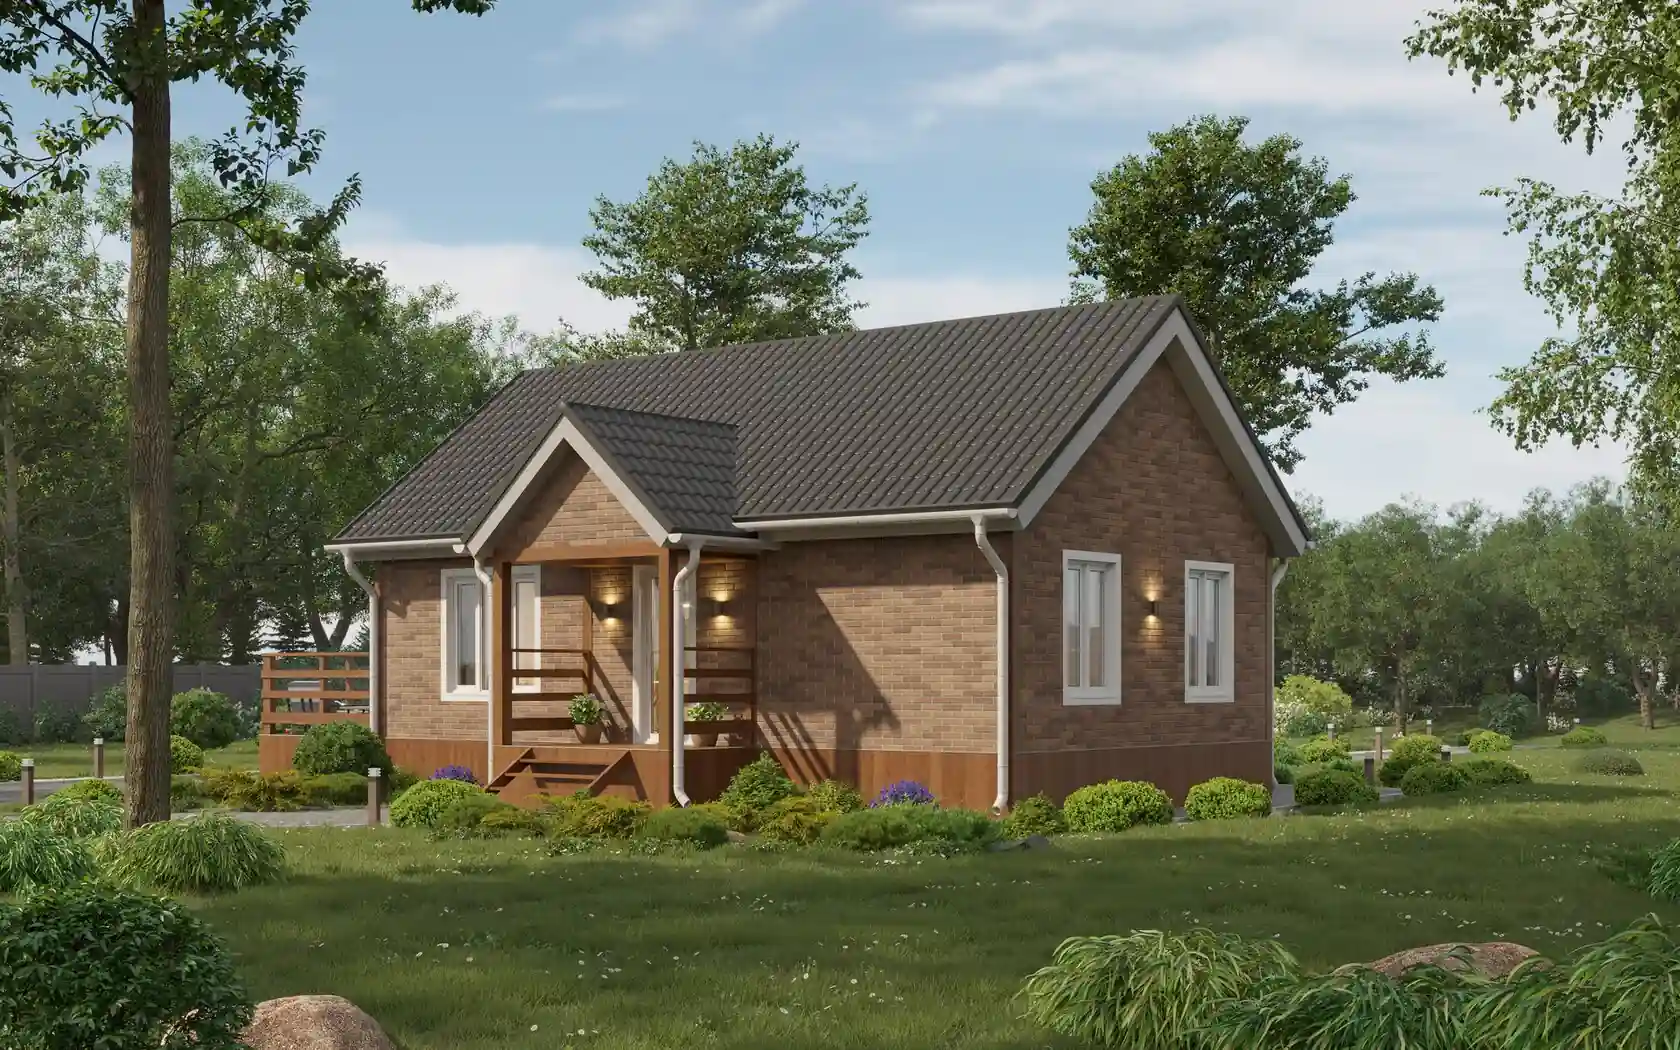
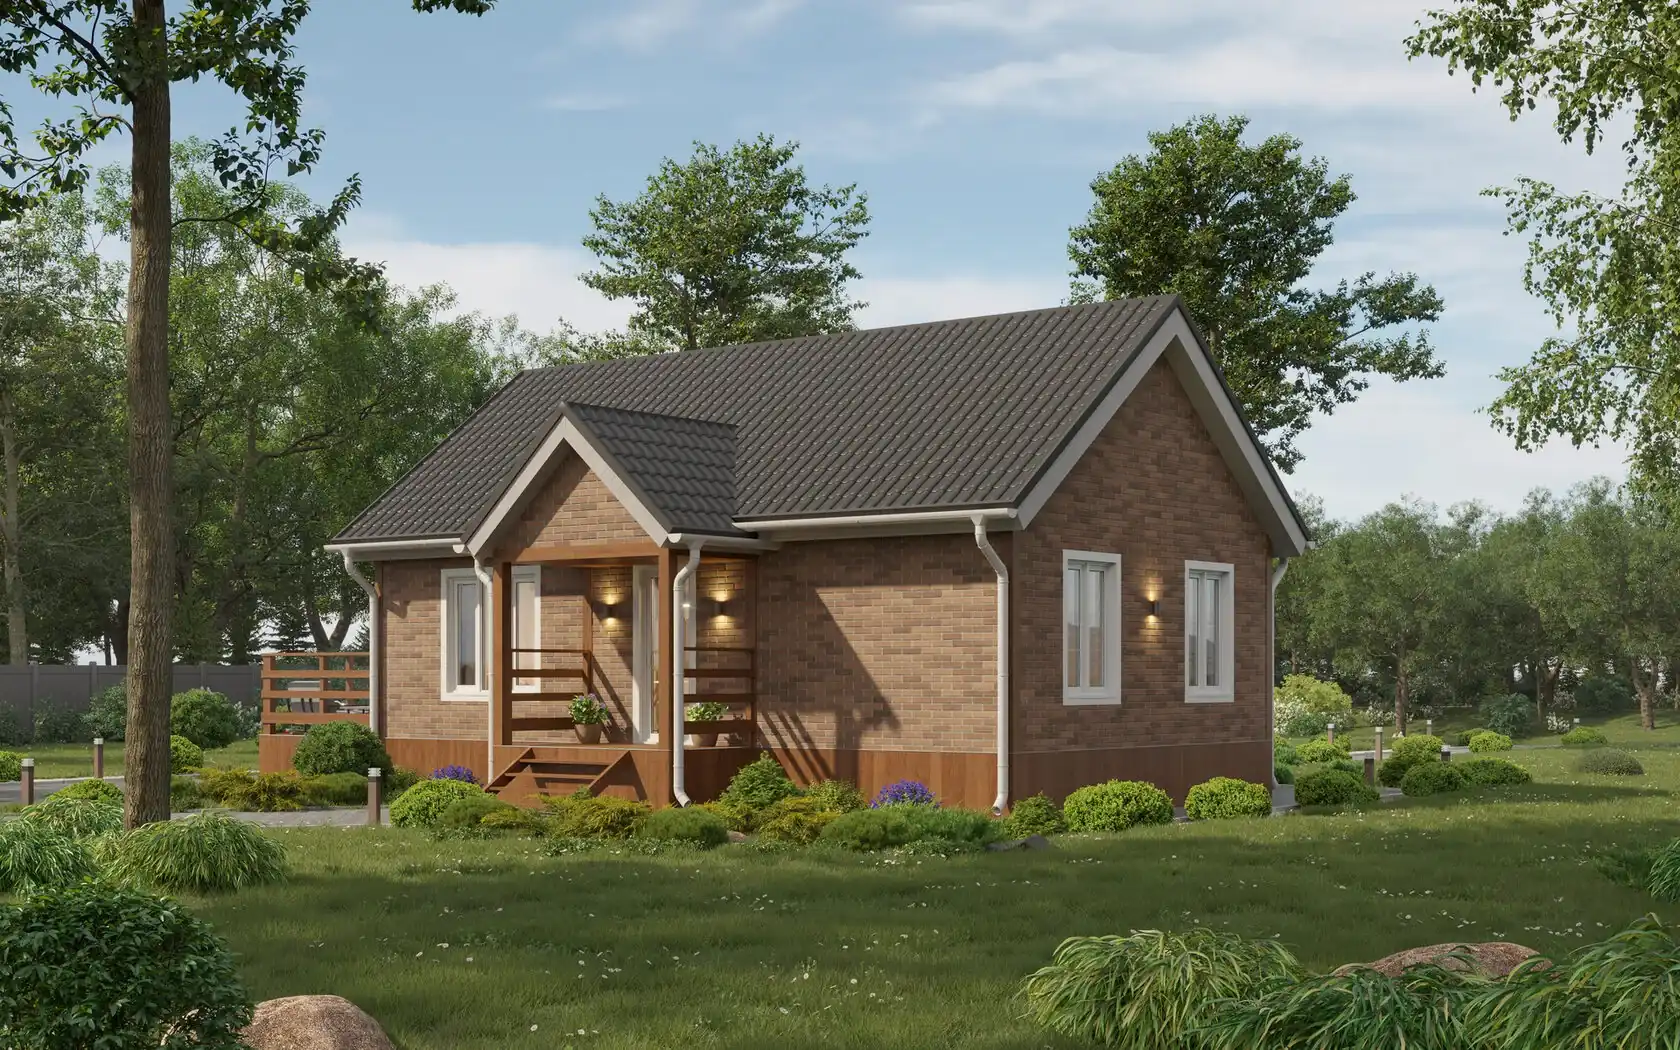
bg route

diff --git a/app/routes.py b/app/routes.py
@@ -16,7 +16,7 @@ main_bp = Blueprint('main', __name__)
 @main_bp.route('/')
 def index():
     projects = Project.query.all()
-    img_url = ensure_hero_webp(projects[0].images.first().url)
+    img_url = ensure_hero_webp(projects[0].images.first().url, overwrite=False)
     return render_template('index.html', projects=projects, hero_bg=img_url)
 
 
@@ -65,36 +65,51 @@ def check_title():
 
 
 # IMAGE COMPRESSORS
-def ensure_hero_webp(input_path):
+def ensure_hero_webp(input_path, overwrite=True):
     original_file_path = os.path.join(current_app.static_folder, input_path)
-    bg_hd_path = os.path.join(current_app.static_folder, 'images', 'hero_bg', 'bg_hd.webp')
-    bg_lq_path = os.path.join(current_app.static_folder, 'images', 'hero_bg', 'bg_lq.webp')
+    bg_dir = os.path.join(current_app.static_folder, 'images', 'hero_bg')
 
-    if not (os.path.exists(bg_hd_path) and os.path.exists(bg_lq_path)):
-        hero_bg_dir_path = os.path.join(current_app.static_folder, 'images', 'hero_bg')
-        os.makedirs(hero_bg_dir_path, exist_ok=True)
+    bg_hd_path = os.path.join(bg_dir, 'bg_hd.webp')
+    bg_lq_path = os.path.join(bg_dir, 'bg_lq.webp')
 
-        # HD
+    # Создаём директорию, если её нет
+    os.makedirs(bg_dir, exist_ok=True)
+
+    # ---- УСЛОВИЕ СОЗДАНИЯ ----
+    need_regenerate = (
+        overwrite or
+        not os.path.exists(bg_hd_path) or
+        not os.path.exists(bg_lq_path)
+    )
+
+    if need_regenerate:
+        # HD ---
         hd_img = Image.open(original_file_path)
-        hd_img.save(bg_hd_path, "WEBP", quality=20, method=6, lossless=False)
+        hd_img.save(
+            bg_hd_path,
+            "WEBP",
+            quality=50,
+            method=6,
+            lossless=False
+        )
 
-        # BLUR
-        lq_img = Image.open(bg_hd_path)
-        lq_img = lq_img.resize((100, 100), Image.LANCZOS)
-        lq_img = lq_img.filter(ImageFilter.GaussianBlur(1))  # размытие
-        lq_img.save(bg_lq_path, "WEBP", quality=15, method=6, lossless=False)
+        # LQ / BLUR ---
+        lq_img = hd_img.resize((100, 100), Image.LANCZOS)
+        lq_img = lq_img.filter(ImageFilter.GaussianBlur(1))
+        lq_img.save(
+            bg_lq_path,
+            "WEBP",
+            quality=15,
+            method=6,
+            lossless=False
+        )
 
-        # lq_img = Image.open(original_file_path)
-        # lq_img = lq_img.resize((20,20), Image.LANCZOS)  # уменьшаем до миниатюры
-        # # img = img.filter(ImageFilter.GaussianBlur(1))
-        # lq_img.save(bg_lq_path, "WEBP", quality=20)
+    # Возвращаем пути для HTML
+    return [
+        os.path.join('static', 'images', 'hero_bg', 'bg_lq.webp'),
+        os.path.join('static', 'images', 'hero_bg', 'bg_hd.webp'),
+    ]
 
-    hd_img_relative_path = os.path.join('static', 'images', 'hero_bg', 'bg_hd.webp')
-    lq_img_relative_path = os.path.join('static', 'images', 'hero_bg', 'bg_lq.webp')
-
-    images_path = [lq_img_relative_path, hd_img_relative_path]
-    print(images_path)
-    return images_path
 
 
 @main_bp.route('/img_blur/<path:filename>')
